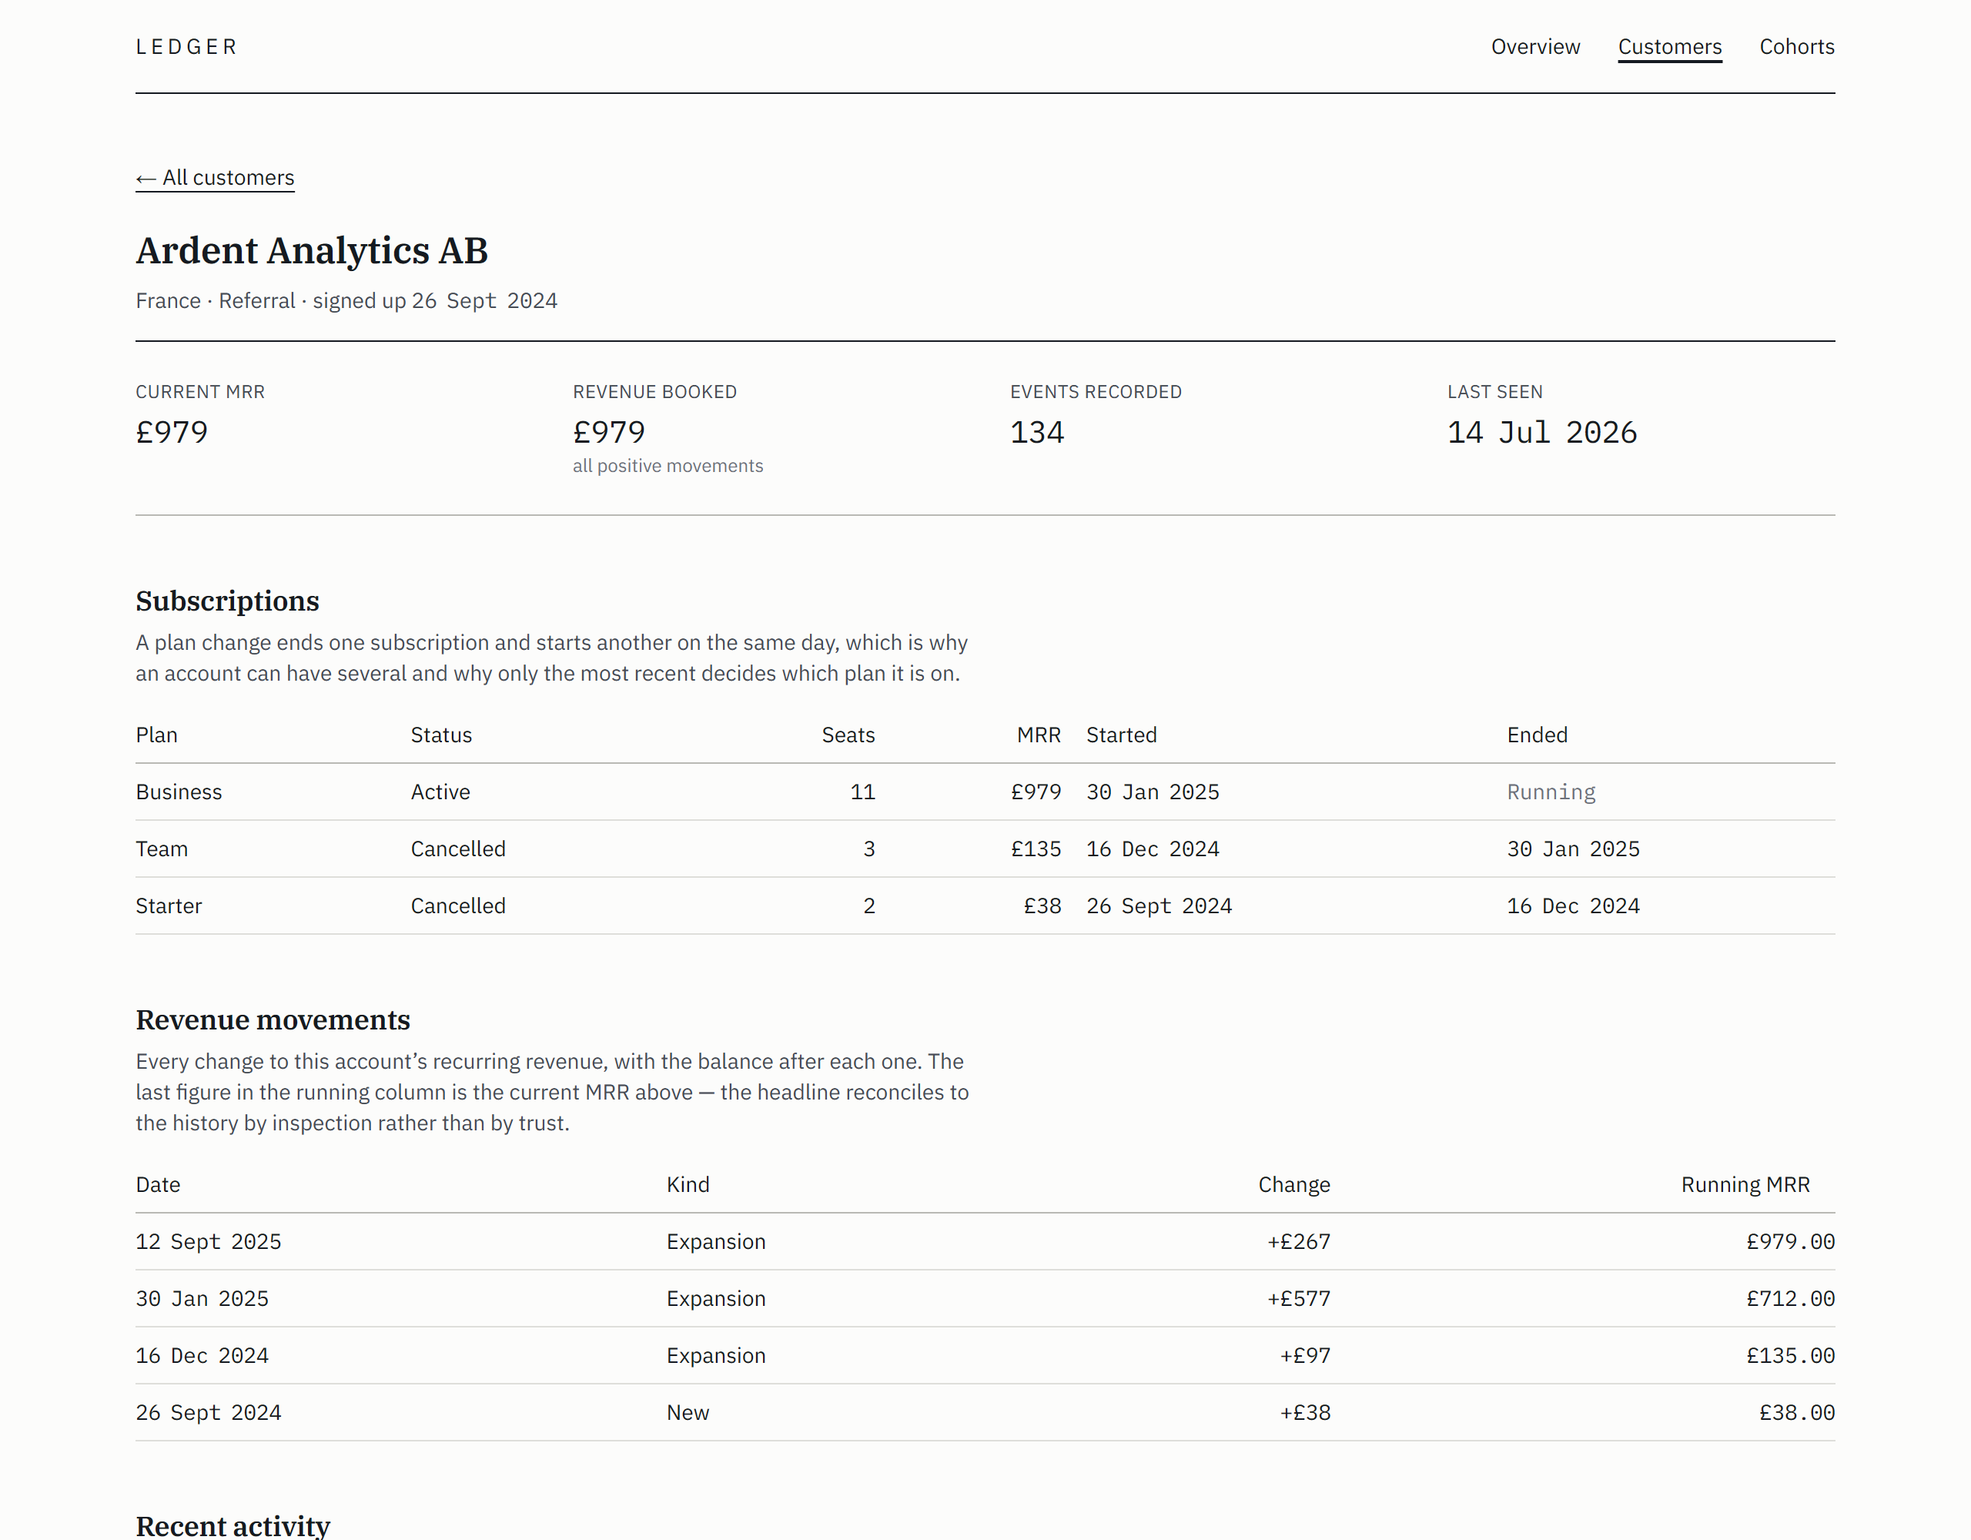
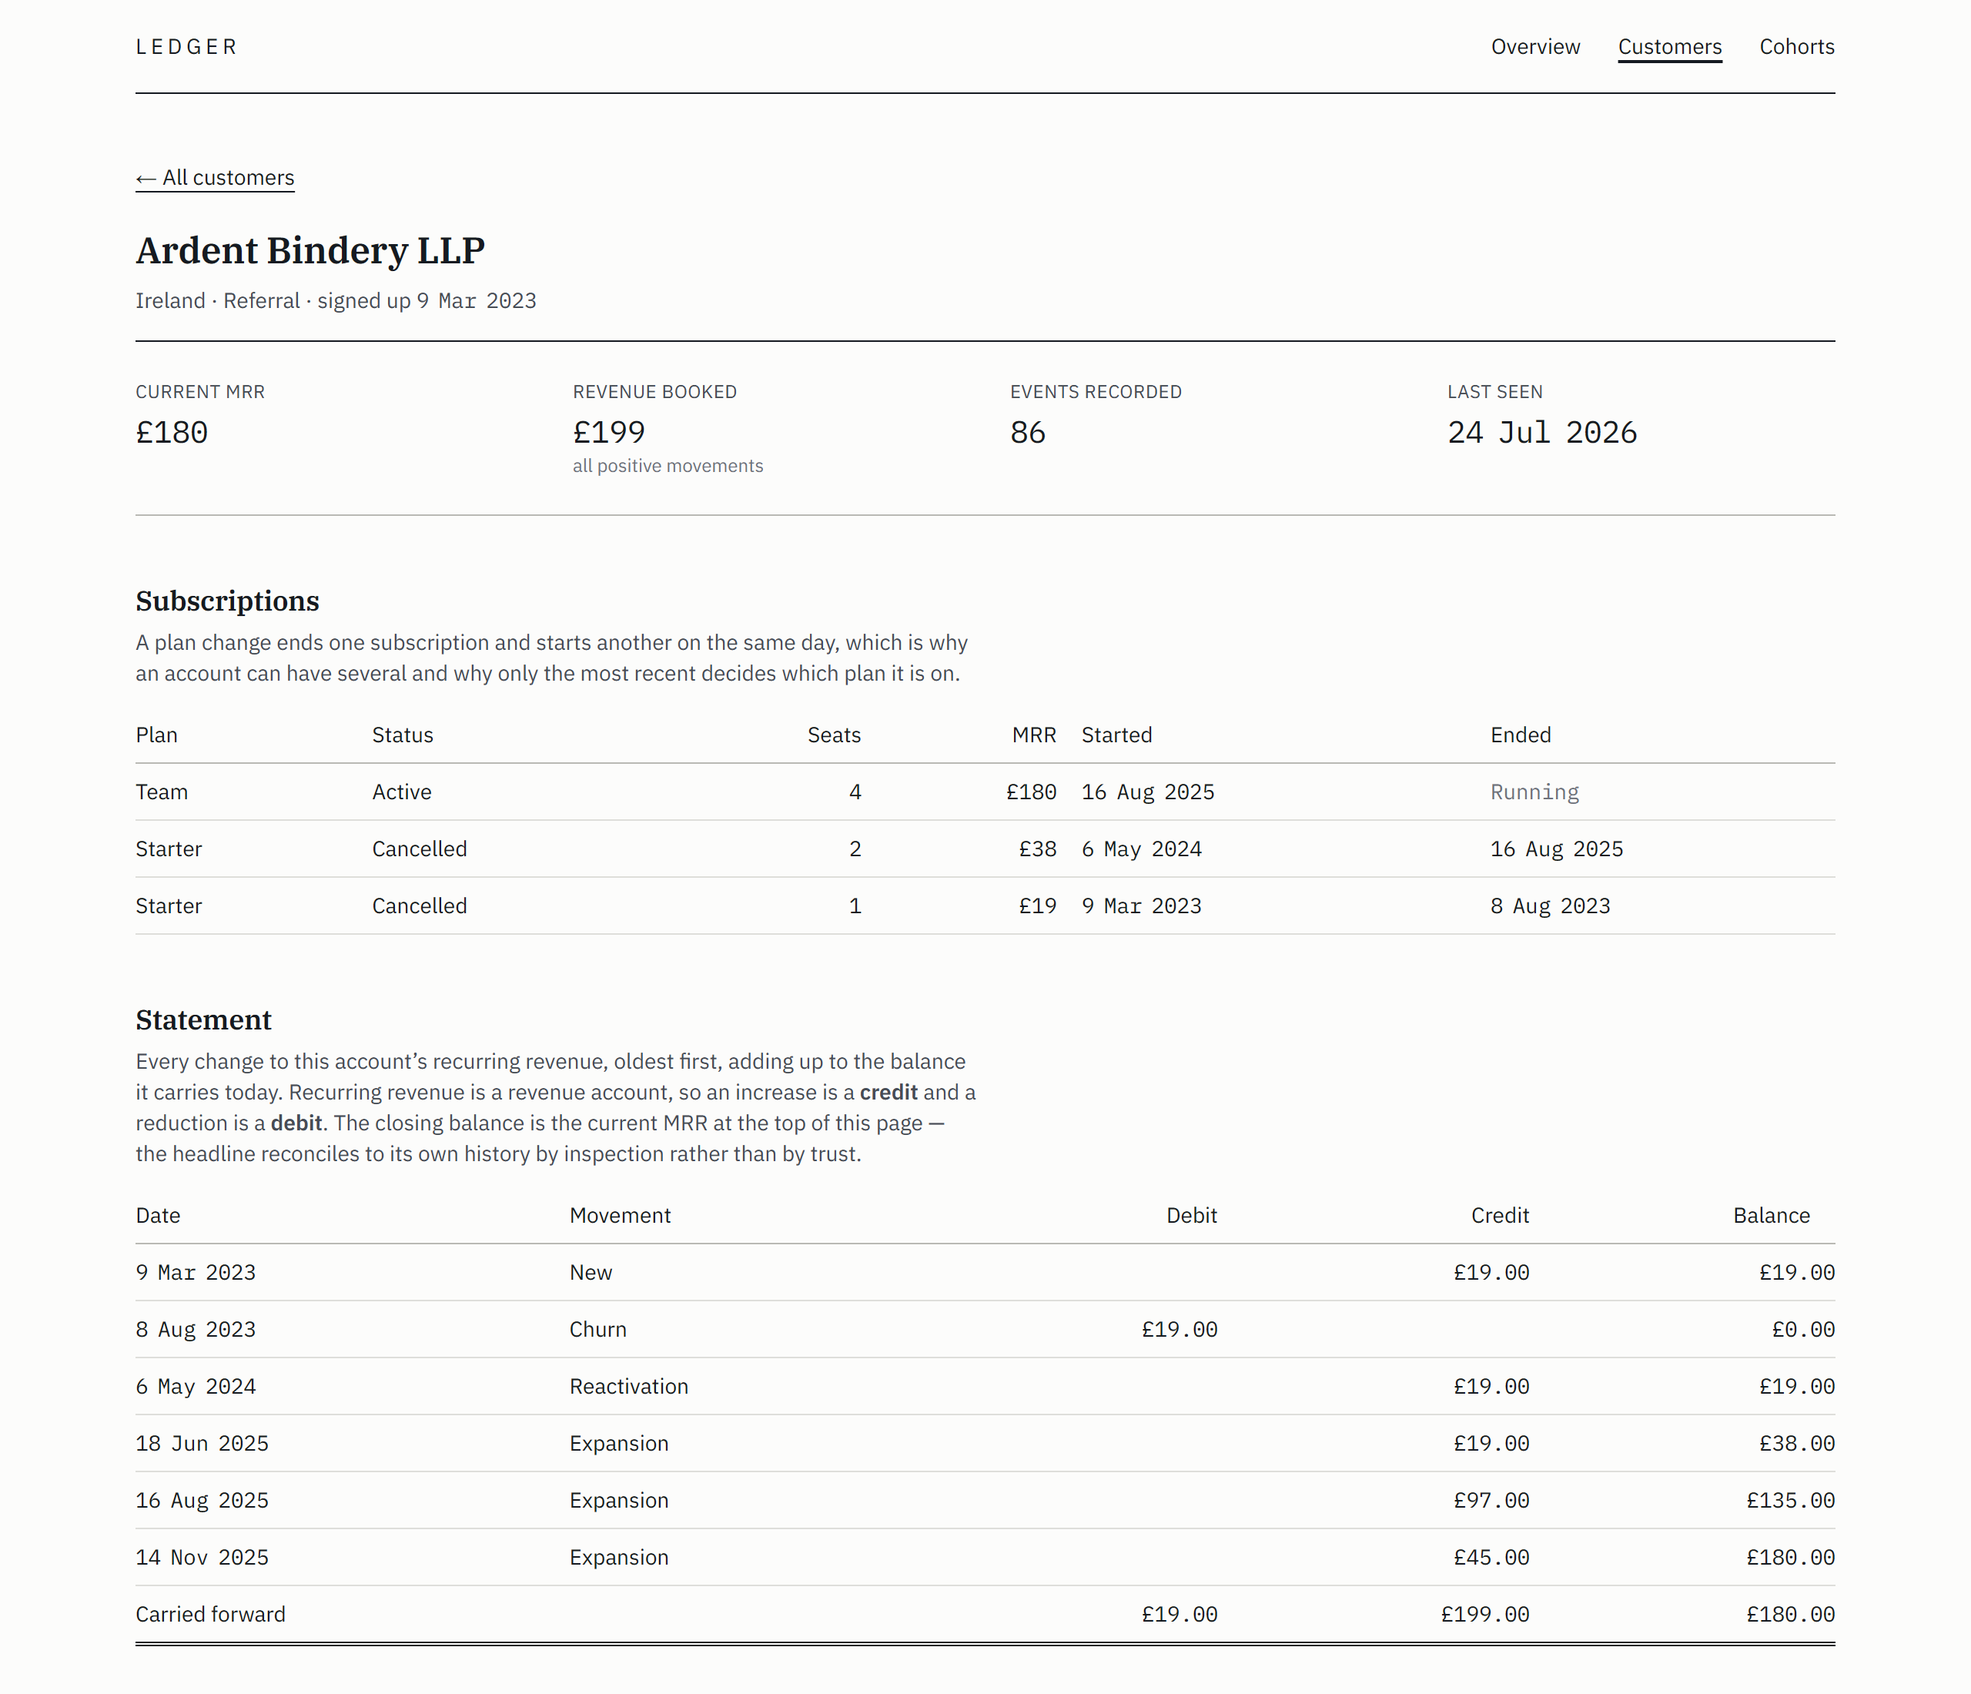
Draw the ledger the product is named after
A design critique put it plainly: the product is called Ledger and had
never once drawn one. The customer page was three consecutive tables in
identical treatment, and the middle one -- the money -- was a Change
column of signed amounts read newest-first. Every ingredient of a ledger
was already in the data and none of it was on the page.

It is a statement now. Facing debit and credit columns, oldest first, a
running balance, and the accountant's rules at the foot: a single line
above the total meaning these are being added up, and a double line
beneath meaning the figure is final. CSS has had border-style: double
since the beginning and almost nothing uses it.

None of it is costume. The two columns separate what took revenue away
from what added it without needing colour, which matters in a build
where colour is reserved for data marks. The empty cell in the column
that did not move is the ledger's own convention and reads better than
printing £0.00 twice on every row. And the foot is a sum somebody can
check by eye: £199.00 credits minus £19.00 debits is £180.00, which is
the Current MRR printed at the top of the same page. The headline
reconciles to its own history by inspection rather than by trust --
which the previous version claimed in a sentence and this one
demonstrates in a shape.

Debit and credit are the right way round for a revenue account, where an
increase is a credit. That is not common knowledge, so the standfirst
[…]

diff --git a/app/customers/[slug]/page.tsx b/app/customers/[slug]/page.tsx
@@ -109,6 +109,18 @@ export default async function CustomerPage({
 
   const churned = customer.churned_at !== null
 
+  /*
+    The statement's foot, added up here rather than in SQL.
+
+    Ten rows is the most any customer has. A second query, or a second pass in
+    Postgres, to sum ten numbers that are already in memory would be ceremony —
+    and this way the total is visibly derived from the rows on screen, which is
+    the property the whole section is claiming.
+  */
+  const debits = movements.reduce((n, m) => (m.amount_pence < 0 ? n - m.amount_pence : n), 0)
+  const credits = movements.reduce((n, m) => (m.amount_pence > 0 ? n + m.amount_pence : n), 0)
+  const closing = credits - debits
+
   return (
     <>
       <p className="text-sm">
@@ -201,40 +213,67 @@ export default async function CustomerPage({
         </Scroller>
       </section>
 
+      {/*
+        The statement.
+
+        This was three consecutive tables in identical treatment, and the
+        middle one — the money — was a Change column of signed amounts read
+        newest-first. The product is called Ledger and had never once drawn
+        one, which is the largest thing a design critique found in it.
+
+        A ledger has facing columns, a foot that adds up, and a double rule
+        under the closing balance. All three are here, and none of them are
+        decoration: the two columns separate what took revenue away from what
+        added it without needing colour to do it, the foot is a sum somebody
+        can check against the balance by eye, and the double rule is what an
+        accountant's page uses to say "this figure is final".
+
+        Debit and credit are the right way round for a revenue account, where
+        an increase is a credit. That is not common knowledge, so the standfirst
+        says it rather than leaving the reader to work out which column is
+        which.
+      */}
       <section className="mt-10">
-        <h2 className="text-lg">Revenue movements</h2>
+        <h2 className="text-lg">Statement</h2>
         <p className="mt-1 max-w-prose text-sm text-(--color-ink-2)">
-          Every change to this account&rsquo;s recurring revenue, with the balance after each
-          one. The last figure in the running column is the current MRR above — the headline
-          reconciles to the history by inspection rather than by trust.
+          Every change to this account&rsquo;s recurring revenue, oldest first, adding up to
+          the balance it carries today. Recurring revenue is a revenue account, so an
+          increase is a <strong>credit</strong> and a reduction is a <strong>debit</strong>.
+          The closing balance is the current MRR at the top of this page — the headline
+          reconciles to its own history by inspection rather than by trust.
         </p>
-        <Scroller label="Revenue movements table" className="mt-3">
+        <Scroller label="Statement of revenue movements" className="mt-3">
           <table className="w-full min-w-[36rem] border-collapse text-sm">
             <caption className="sr-only">
-              Revenue movements, most recent first, with the running balance after each.
+              Statement of revenue movements, oldest first, with debits, credits and the
+              balance after each, footed with the totals and the closing balance.
             </caption>
             <thead>
               <tr>
                 <Th>Date</Th>
-                <Th>Kind</Th>
-                <Th numeric>Change</Th>
-                <Th numeric>Running MRR</Th>
+                <Th>Movement</Th>
+                <Th numeric>Debit</Th>
+                <Th numeric>Credit</Th>
+                <Th numeric>Balance</Th>
               </tr>
             </thead>
             <tbody>
               {movements.map((row) => (
                 <tr key={row.id} className="border-b border-(--color-rule)">
-                  <th scope="row" className="py-2 pr-4 text-left font-normal">
+                  <th scope="row" className="py-2 pr-4 text-left font-normal whitespace-nowrap">
                     <span data-numeric>{day(row.occurred_on)}</span>
                   </th>
                   <td className="py-2 pr-4">{humanise(row.kind)}</td>
-                  <td
-                    data-numeric
-                    className={`py-2 pr-4 text-right ${
-                      row.amount_pence < 0 ? 'text-(--color-data-neg)' : ''
-                    }`}
-                  >
-                    {movement(row.amount_pence)}
+                  {/*
+                    An empty cell rather than a zero. A ledger leaves the column
+                    that did not move blank, and printing 0.00 in it would make
+                    every row look like two entries instead of one.
+                  */}
+                  <td data-numeric className="py-2 pr-4 text-right">
+                    {row.amount_pence < 0 ? moneyExact(Math.abs(row.amount_pence)) : ''}
+                  </td>
+                  <td data-numeric className="py-2 pr-4 text-right">
+                    {row.amount_pence > 0 ? moneyExact(row.amount_pence) : ''}
                   </td>
                   <td data-numeric className="py-2 text-right">
                     {moneyExact(row.running_pence)}
@@ -242,6 +281,33 @@ export default async function CustomerPage({
                 </tr>
               ))}
             </tbody>
+            {/*
+              A real <tfoot>, so it is announced as one and stays with the
+              table when the columns scroll.
+
+              Single rule above, double rule below, which is the way round an
+              accountant writes it: the line above means "these are being added
+              up", and the double line beneath means the figure is final. CSS
+              has had `border-style: double` since the beginning and almost
+              nothing uses it; at 3px it renders as exactly what it is, two
+              hairlines with a gap.
+            */}
+            <tfoot>
+              <tr className="border-t border-(--color-ink) [border-bottom:3px_double_var(--color-ink)]">
+                <th scope="row" colSpan={2} className="py-2 pr-4 text-left font-normal">
+                  Carried forward
+                </th>
+                <td data-numeric className="py-2 pr-4 text-right">
+                  {debits > 0 ? moneyExact(debits) : ''}
+                </td>
+                <td data-numeric className="py-2 pr-4 text-right">
+                  {credits > 0 ? moneyExact(credits) : ''}
+                </td>
+                <td data-numeric className="py-2 text-right">
+                  {moneyExact(closing)}
+                </td>
+              </tr>
+            </tfoot>
           </table>
         </Scroller>
       </section>

diff --git a/src/metrics/queries.test.ts b/src/metrics/queries.test.ts
@@ -5,6 +5,7 @@ import {AS_AT, WINDOW_START} from '../db/generate.ts'
 import {refreshRollup} from '../db/rollup.ts'
 import {probeDatabase, skipWithoutDatabase, testDatabaseUrl} from '../db/testing.ts'
 import {cohortRetention, type CohortCell} from './cohorts.ts'
+import {customerMovements, type MovementRow} from './customer-detail.ts'
 import {customerTable, type CustomerQueryOptions, type CustomerRow} from './customers.ts'
 import {customerExport} from './export.ts'
 import {mrrSeriesFromMovements, mrrSeriesFromRollup, type MrrPoint} from './mrr-series.ts'
@@ -366,5 +367,50 @@ describe.skipIf(skip)('the export and the table describe the same customers', ()
 
     expect(everyone).toBeGreaterThan(0)
     expect(matched).toBeLessThan(everyone)
+  })
+})
+
+describe.skipIf(skip)('the statement foots', () => {
+  /*
+    The customer page prints a debit total, a credit total and a closing
+    balance under a double rule, and claims the third is the second minus the
+    first. That claim is the whole reason the section is drawn as a ledger
+    rather than as a list, so it is worth more than an assertion in a comment.
+
+    It also checks the running balance, which comes from a window function in
+    SQL, against a plain accumulation in JavaScript. Two ways of computing the
+    same column, which is this file's habit.
+  */
+  it('reconciles debits, credits and the closing balance for every busy account', async () => {
+    const busiest = await run<{id: string; n: number}>({
+      name: 'test-busiest-customers',
+      params: [],
+      text: `select customer_id as id, count(*)::int as n
+             from mrr_movement group by customer_id
+             order by n desc limit 25`,
+    })
+    expect(busiest.length).toBe(25)
+
+    for (const {id} of busiest) {
+      const rows = await run<MovementRow>(customerMovements(id))
+      expect(rows.length).toBeGreaterThan(0)
+
+      // Oldest first, because a statement accumulates downward.
+      const days = rows.map((r) => r.occurred_on)
+      expect([...days].sort()).toEqual(days)
+
+      const debits = rows.reduce((n, r) => (r.amount_pence < 0 ? n - r.amount_pence : n), 0)
+      const credits = rows.reduce((n, r) => (r.amount_pence > 0 ? n + r.amount_pence : n), 0)
+      const closing = Number(rows[rows.length - 1]!.running_pence)
+
+      expect(credits - debits).toBe(closing)
+
+      // And the window function agrees with accumulating by hand, row by row.
+      let balance = 0
+      for (const row of rows) {
+        balance += row.amount_pence
+        expect(Number(row.running_pence)).toBe(balance)
+      }
+    }
   })
 })

diff --git a/src/metrics/customer-detail.ts b/src/metrics/customer-detail.ts
@@ -132,7 +132,12 @@ export function customerMovements(customerId: string): Query {
         )::bigint as running_pence
       from mrr_movement m
       where m.customer_id = ${id}::uuid
-      order by m.occurred_on desc, m.id desc
+      -- Oldest first. This is read as a statement, and a statement accumulates
+      -- downward to a closing balance; newest-first would put the running
+      -- total in reverse and leave the figure that matters at the top with
+      -- nothing above it to have produced it. Ten movements is the most any
+      -- customer has, so there is no length argument for the other order.
+      order by m.occurred_on, m.id
     `,
   }
 }

diff --git a/README.md b/README.md
@@ -802,6 +802,50 @@ performance story that is true, the performance story wins.
 
 ---
 
+## The statement
+
+A design critique put it plainly: **the product is called Ledger and had never once drawn
+one.** The customer page was three consecutive tables in identical treatment, and the
+middle one — the money — was a `Change` column of signed amounts read newest-first. Every
+ingredient of a ledger was already in the data and none of it was on the page.
+
+It is a statement now. Facing debit and credit columns, oldest first, a running balance,
+and the accountant's rules at the foot: a single line above the total meaning *these are
+being added up*, and a double line beneath meaning *this figure is final*. CSS has had
+`border-style: double` since the beginning and almost nothing uses it; at 3px it renders
+as exactly what it is, two hairlines with a gap.
+
+None of it is costume. The two columns separate what took revenue away from what added it
+**without needing colour to do it**, which matters in a build where colour is reserved for
+data marks and every chart has to survive greyscale. The empty cell in the column that did
+not move is the ledger's own convention and reads better than printing `£0.00` twice on
+every row. And the foot is a sum somebody can check by eye:
+
+```
+Carried forward        £19.00      £199.00      £180.00
+                       debits      credits      closing
+```
+
+£199.00 − £19.00 = £180.00, which is the **Current MRR** printed at the top of the same
+page. The headline reconciles to its own history by inspection rather than by trust —
+which the previous version claimed in a sentence and this one demonstrates in a shape.
+
+Debit and credit are the right way round for a revenue account, where an increase is a
+credit. That is not common knowledge, so the standfirst says so rather than leaving the
+reader to work out which column is which.
+
+The ordering changed with it. A statement accumulates downward, so the movements come back
+oldest-first; newest-first would run the balance in reverse and leave the figure that
+matters at the top with nothing above it to have produced it. Ten movements is the most any
+customer in the dataset has, so there was never a length argument for the other order.
+
+A test walks the twenty-five busiest accounts and asserts three things: that the rows come
+back in date order, that credits minus debits equals the closing balance, and that the
+running balance from Postgres's window function agrees with accumulating the same rows by
+hand in JavaScript.
+
+---
+
 ## What is deliberately missing
 
 **No authentication.** Every page is public. A real billing dashboard is the most
@@ -848,7 +892,7 @@ npm run dev                   # http://localhost:3003
 ```
 
 ```bash
-npm test                      # 100 tests; most of them need the database
+npm test                      # 101 tests; most of them need the database
 npm run measure -- before     # query timings and plans -> docs/measurements/
 npm run contrast              # every contrast ratio, exits non-zero on a failure
 npm run a11y                  # keyboard and accessibility-tree sweep, plus axe
